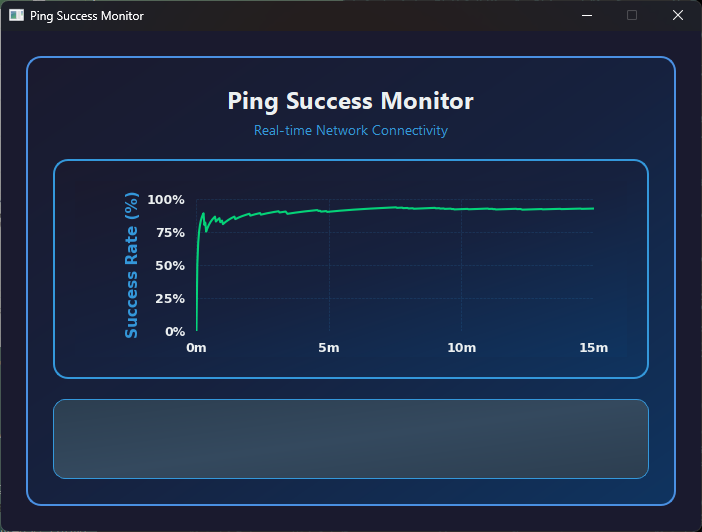
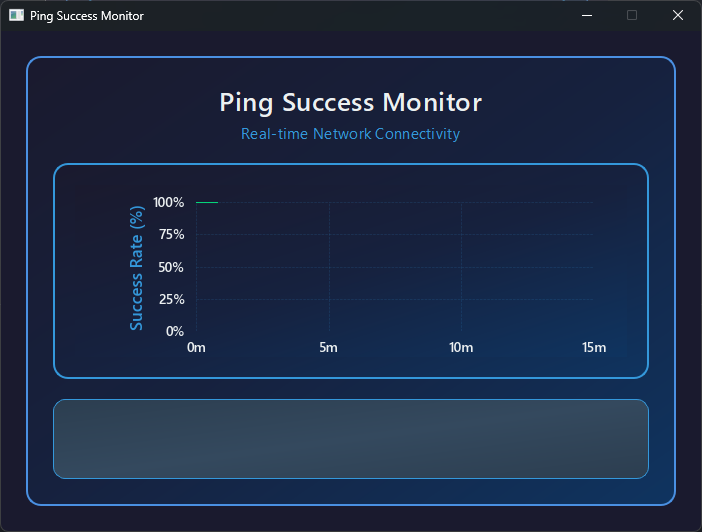
feat: enhance typography and font settings
Updated font configurations for matplotlib and adjusted label styles in MatplotlibWidget and MainWindow to enhance readability and aesthetics. Updated application-wide font settings for better typography.

diff --git a/main_matplotlib.py b/main_matplotlib.py
@@ -32,9 +32,21 @@ from PySide6.QtWidgets import (
 import matplotlib.pyplot as plt
 from matplotlib.backends.backend_qt5agg import FigureCanvasQTAgg as FigureCanvas
 from matplotlib.figure import Figure
+import matplotlib.font_manager as fm
 
 # Use non-interactive backend
 plt.ioff()
+
+# Configure better fonts for matplotlib
+plt.rcParams['font.family'] = 'sans-serif'
+plt.rcParams['font.sans-serif'] = ['Segoe UI', 'Arial', 'DejaVu Sans', 'Liberation Sans', 'sans-serif']
+plt.rcParams['font.size'] = 10
+plt.rcParams['axes.titlesize'] = 12
+plt.rcParams['axes.labelsize'] = 11
+plt.rcParams['xtick.labelsize'] = 9
+plt.rcParams['ytick.labelsize'] = 9
+plt.rcParams['legend.fontsize'] = 10
+plt.rcParams['figure.titlesize'] = 14
 
 PING_INTERVAL = 1.0  # seconds
 PACKETS_PER_INTERVAL = 5
@@ -138,13 +150,13 @@ class MatplotlibWidget(FigureCanvas):
         
         # Enhanced axis labels with better typography
         self.ax.set_xticks([0, 5, 10, 15])
-        self.ax.set_xticklabels(['0m', '5m', '10m', '15m'], color='#ecf0f1', fontsize=9, weight='bold')
+        self.ax.set_xticklabels(['0m', '5m', '10m', '15m'], color='#ecf0f1', fontsize=10, weight='600', fontfamily='Segoe UI')
         self.ax.set_yticks([0, 25, 50, 75, 100])
-        self.ax.set_yticklabels(['0%', '25%', '50%', '75%', '100%'], color='#ecf0f1', fontsize=9, weight='bold')
+        self.ax.set_yticklabels(['0%', '25%', '50%', '75%', '100%'], color='#ecf0f1', fontsize=10, weight='600', fontfamily='Segoe UI')
         
         # Enhanced axis labels
-        self.ax.set_xlabel('Time (minutes)', color='#3498db', fontsize=11, weight='bold')
-        self.ax.set_ylabel('Success Rate (%)', color='#3498db', fontsize=11, weight='bold')
+        self.ax.set_xlabel('Time (minutes)', color='#3498db', fontsize=12, weight='600', fontfamily='Segoe UI')
+        self.ax.set_ylabel('Success Rate (%)', color='#3498db', fontsize=12, weight='600', fontfamily='Segoe UI')
         
         # Modern styling for the canvas
         self.setStyleSheet("""
@@ -218,20 +230,22 @@ class MainWindow(QMainWindow):
         title = QLabel("Ping Success Monitor")
         title.setStyleSheet("""
             color: #ecf0f1; 
-            font-size: 24px; 
-            font-weight: bold; 
-            font-family: 'Segoe UI', Arial, sans-serif;
+            font-size: 26px; 
+            font-weight: 600; 
+            font-family: 'Segoe UI', 'Arial', sans-serif;
             text-align: center;
+            letter-spacing: 0.5px;
         """)
         title.setAlignment(Qt.AlignCenter)
 
         subtitle = QLabel("Real-time Network Connectivity")
         subtitle.setStyleSheet("""
             color: #3498db; 
-            font-size: 14px; 
-            font-weight: normal; 
-            font-family: 'Segoe UI', Arial, sans-serif;
+            font-size: 15px; 
+            font-weight: 400; 
+            font-family: 'Segoe UI', 'Arial', sans-serif;
             text-align: center;
+            letter-spacing: 0.3px;
         """)
         subtitle.setAlignment(Qt.AlignCenter)
 
@@ -281,10 +295,11 @@ class MainWindow(QMainWindow):
         self.percentage_label = QLabel("0.0%")
         self.percentage_label.setStyleSheet("""
             color: white; 
-            font-size: 32px; 
-            font-weight: bold; 
-            font-family: 'Segoe UI', Arial, sans-serif;
+            font-size: 34px; 
+            font-weight: 600; 
+            font-family: 'Segoe UI', 'Arial', sans-serif;
             text-align: center;
+            letter-spacing: 1px;
         """)
         self.percentage_label.setAlignment(Qt.AlignCenter)
         percentage_layout.addWidget(self.percentage_label)
@@ -294,10 +309,11 @@ class MainWindow(QMainWindow):
         time_label = QLabel("Last 15 Minutes")
         time_label.setStyleSheet("""
             color: #bdc3c7; 
-            font-size: 14px; 
-            font-weight: normal; 
-            font-family: 'Segoe UI', Arial, sans-serif;
+            font-size: 15px; 
+            font-weight: 400; 
+            font-family: 'Segoe UI', 'Arial', sans-serif;
             text-align: center;
+            letter-spacing: 0.2px;
         """)
         time_label.setAlignment(Qt.AlignCenter)
         status_layout.addWidget(time_label)
@@ -391,8 +407,9 @@ if __name__ == "__main__":
     palette.setColor(QPalette.Highlight, QColor("#3498db"))
     app.setPalette(palette)
 
-    # Set application-wide font
-    font = QFont("Segoe UI", 9)
+    # Set application-wide font with better typography
+    font = QFont("Segoe UI", 10)
+    font.setWeight(QFont.Weight.Normal)
     app.setFont(font)
 
     win = MainWindow()
